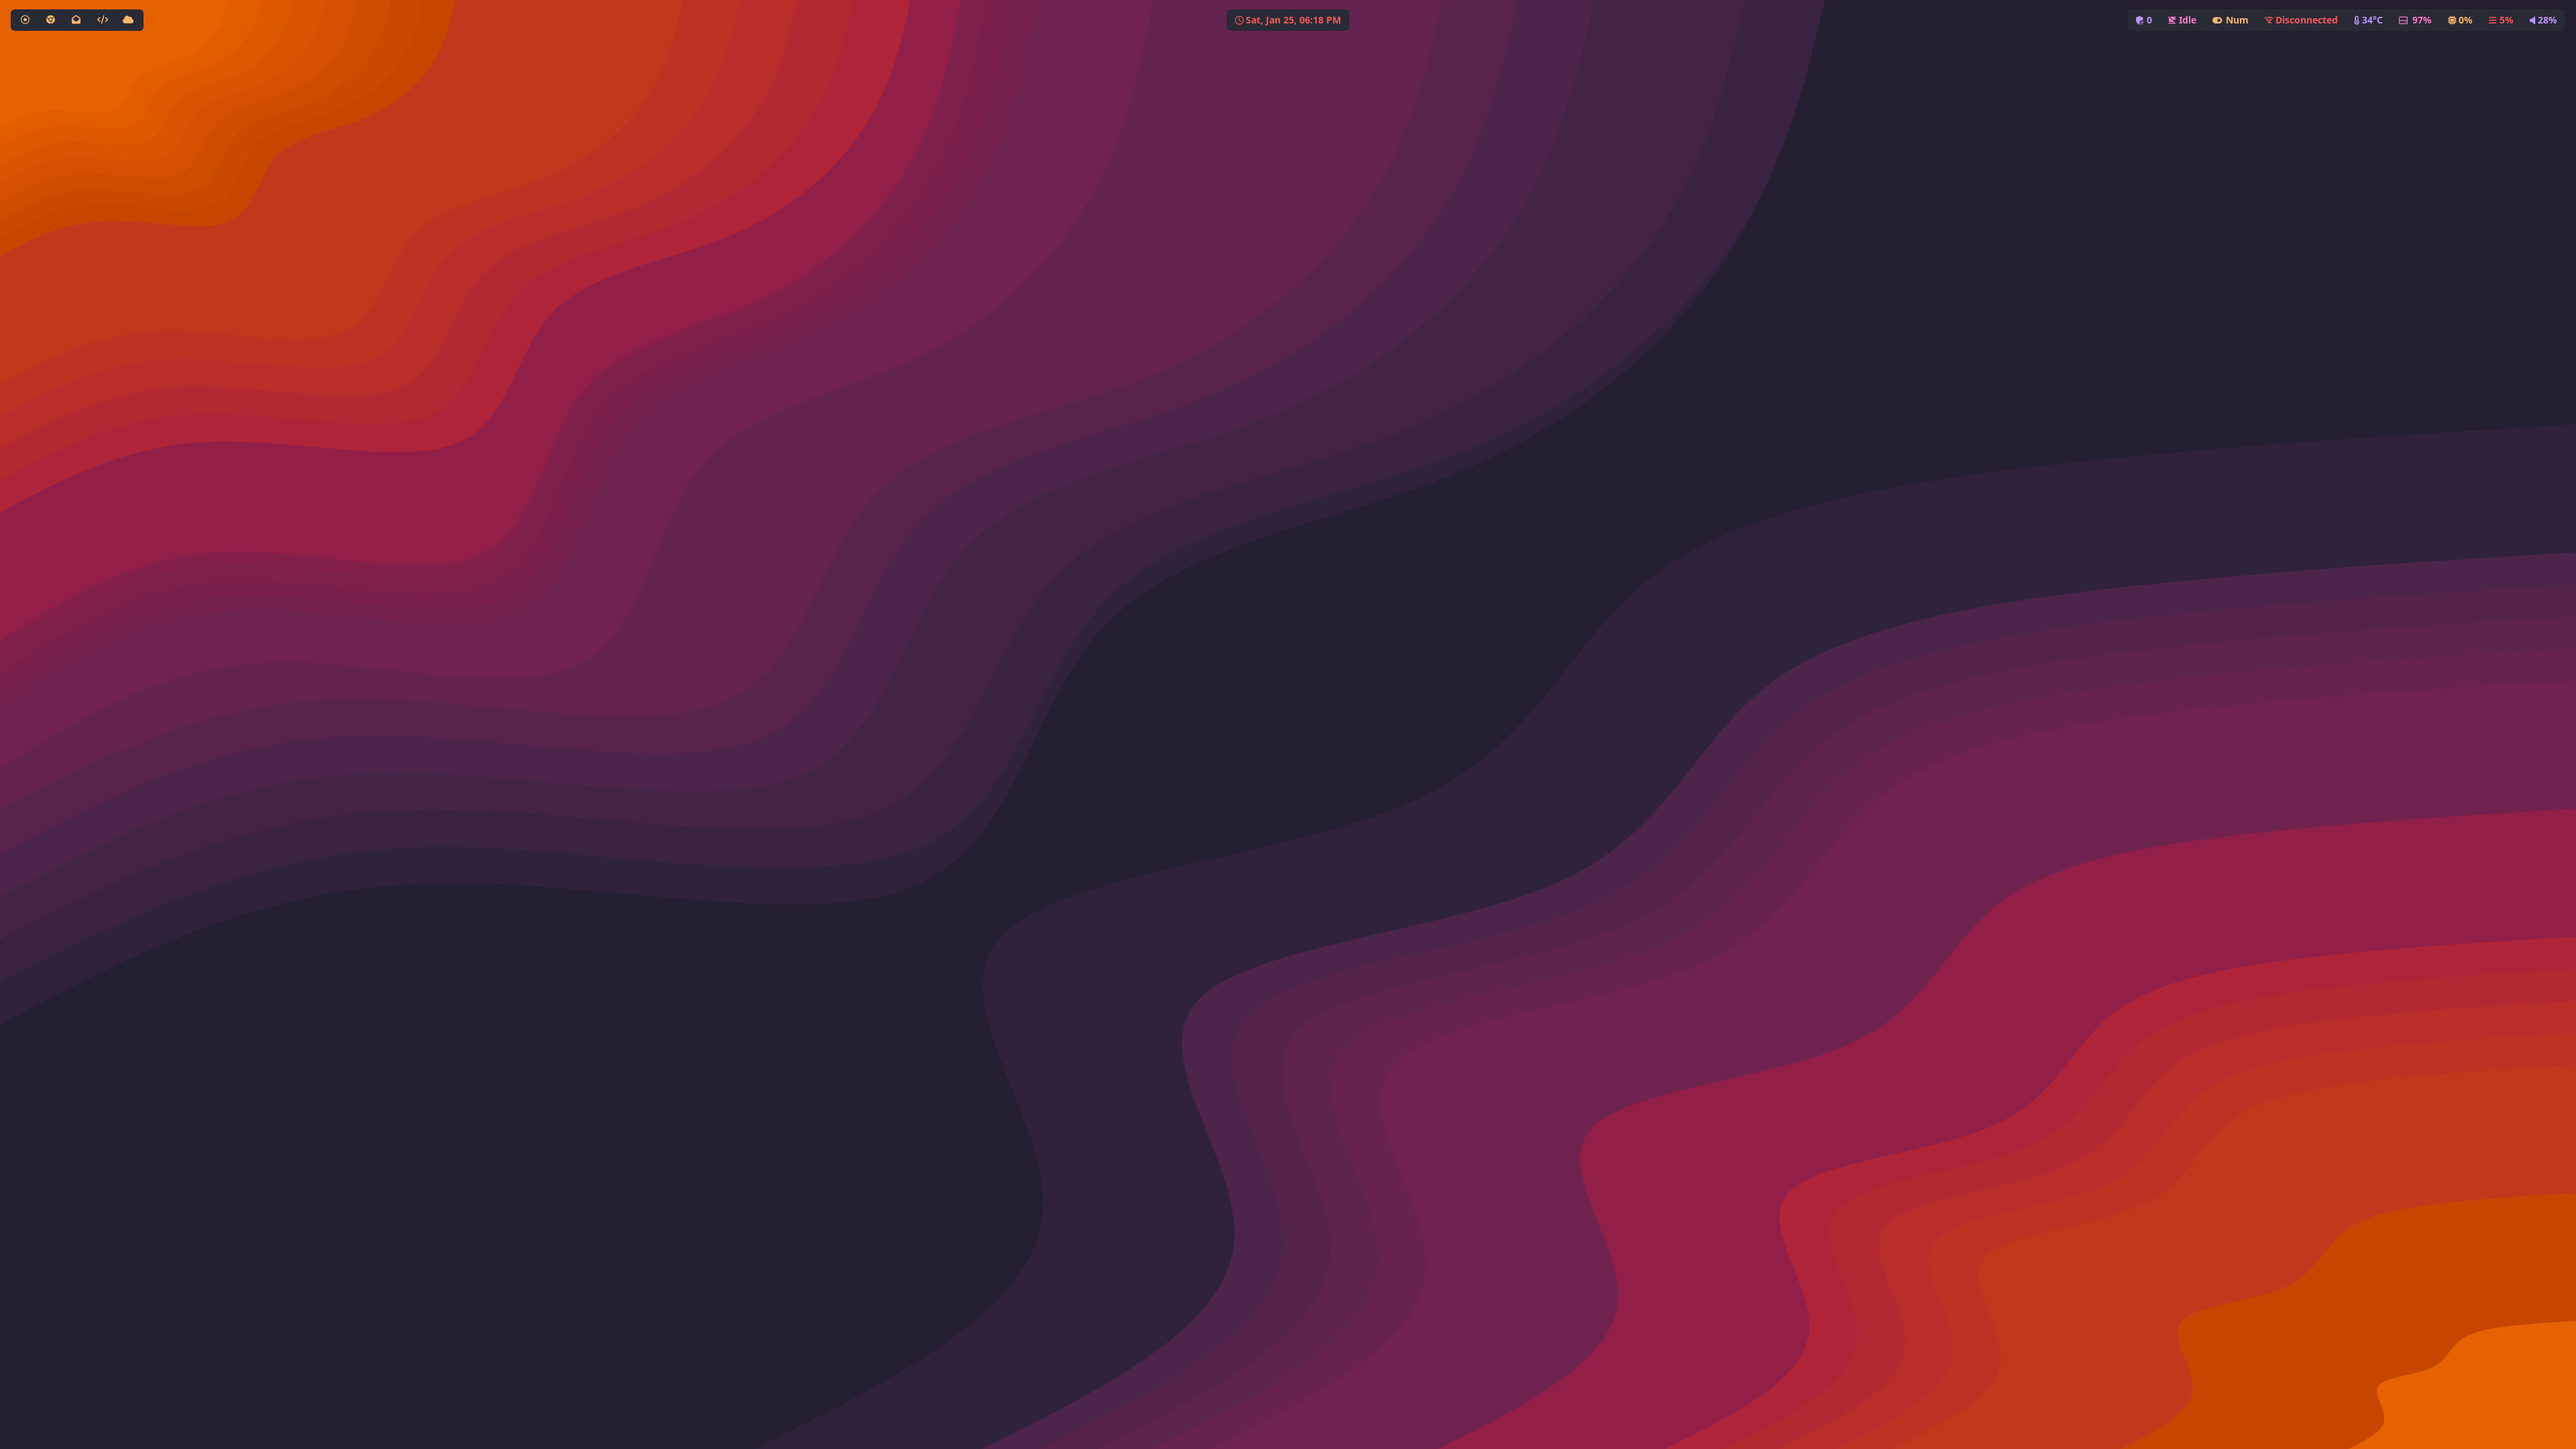
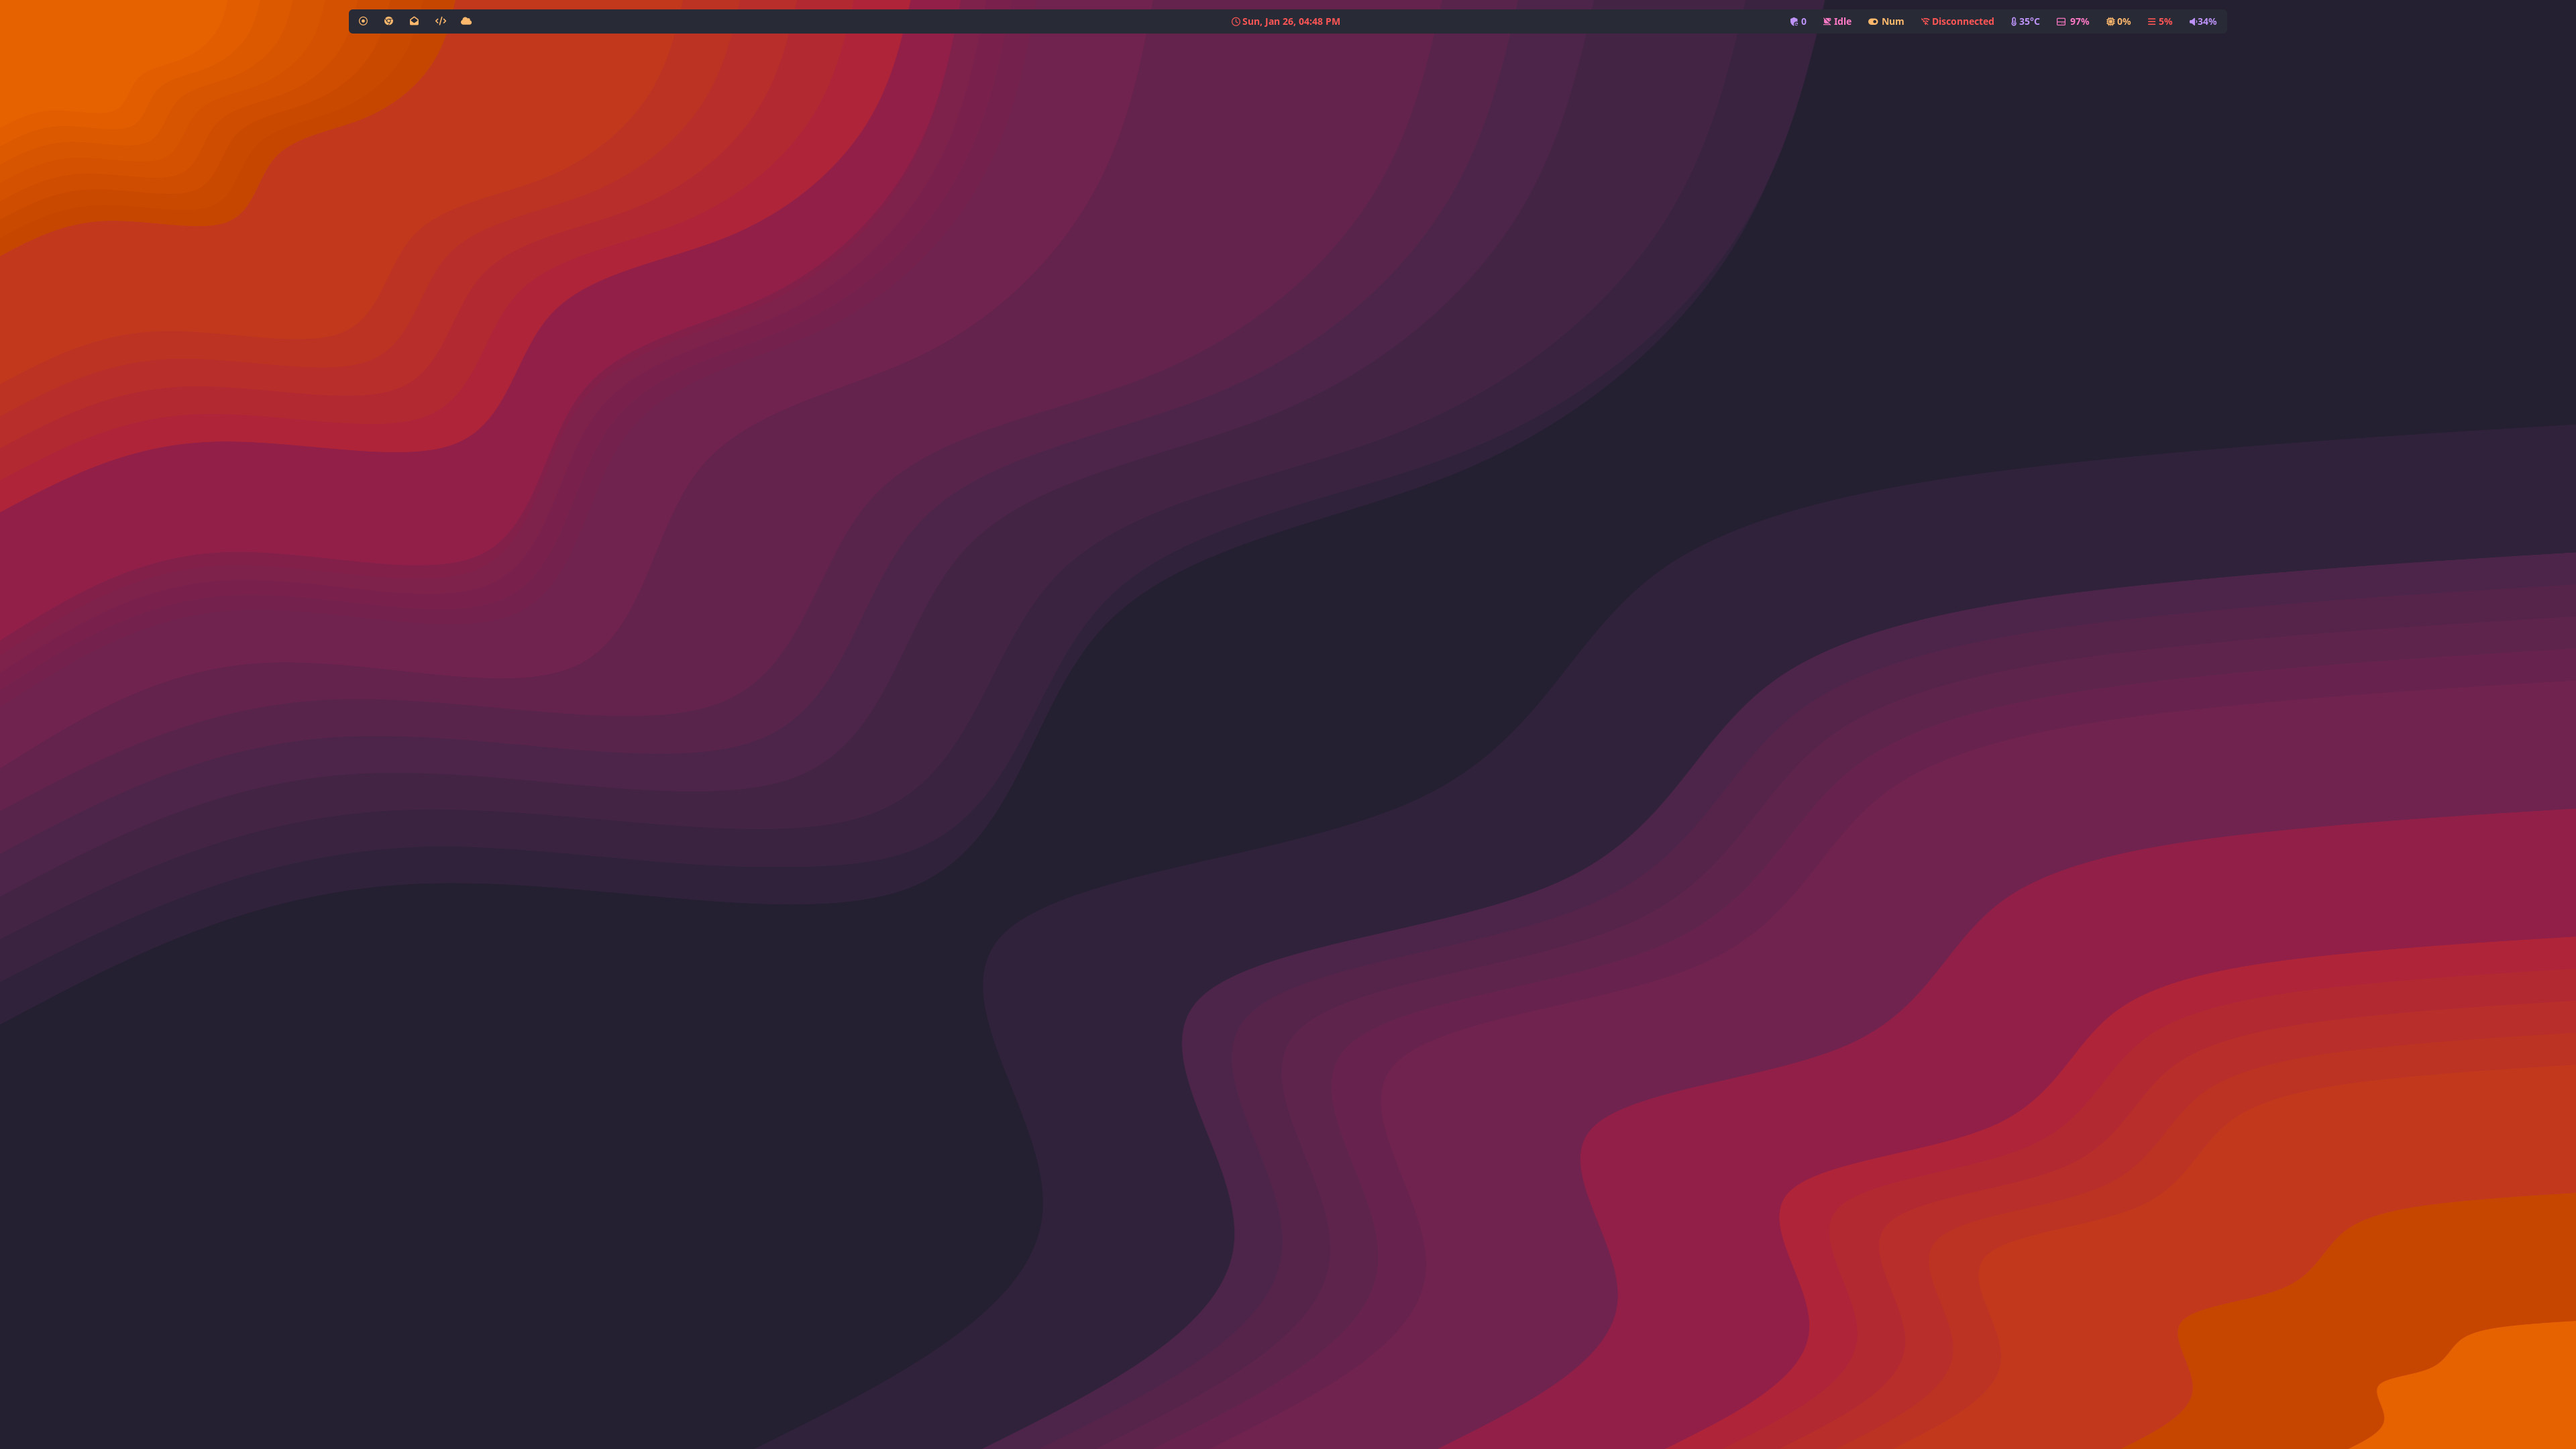
waybar width & color

Changed region(s): [[0.125, 0.0, 0.6875, 0.031], [0.0, 0.0, 0.0625, 0.031]]

diff --git a/.config/waybar/style.css b/.config/waybar/style.css
@@ -8,7 +8,7 @@
 }
 
 window#waybar {  
-  background: transparent;
+  background: #282a36;
 }
 
 tooltip {
@@ -21,23 +21,10 @@ tooltip label {
   padding: 2px;
 }
 
-.modules-left {
-  background: #282a36; 
-  padding-right: 8px;
-}
-
-.modules-center {
-  background: #282a36;
-}
-
-.modules-right {
-  background: #282a36;
-}
-
 #workspaces button {
   background: #282a36;
   color: #bd93f9;
-  margin: 3px 10px;
+  margin: 5px 10px;
 }
 
 #workspaces button.active {
@@ -72,7 +59,7 @@ tooltip label {
 #cpu,
 #memory,
 #pulseaudio {
-  margin: 3px 12px;
+  margin: 5px 15px 5px 10px;
 }
 
 #clock {
